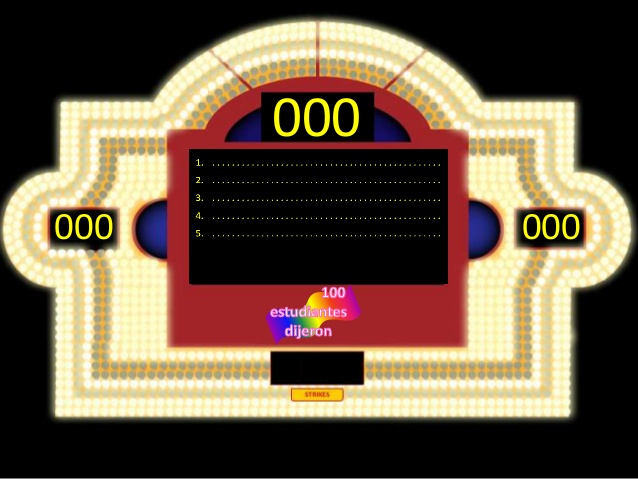
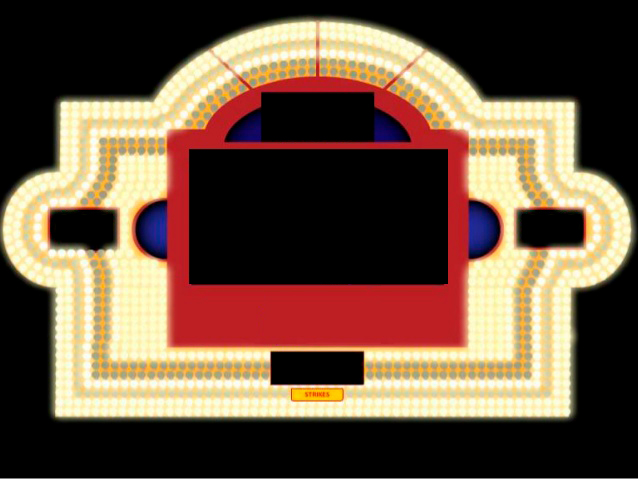
puntajes establecidos

diff --git a/index.html b/index.html
@@ -4,7 +4,6 @@
     <title>100 fisios dijeron</title>
     <script src="js/vue.min.js"></script>
     <link rel="stylesheet" href="css/bootstrap.min.css">
-    <link rel="stylesheet" href="css/foundation.min.css">
     <link rel="stylesheet" href="css/app.css">
 </head>
 <body>
@@ -23,11 +22,17 @@
             </div>
         </div>
     </div>
-    <div class="container">
+    <div class="container-fluid">
         <div class="row">
-            <div class="col-12">
-
-
+            <div class="col-3 align-self-center ">
+                <div class="mx-auto puntuacion-equipo">
+                    <p>30as0</p>
+                </div>
+            </div>
+            <div class="col-6" style="height: 92vh">
+                <div id="puntuacion-ronda" class="mx-auto">
+                    <p>{{puntuacionRonda}}</p>
+                </div>
                 <div class="contenedor-preguntas">
                     <section v-for="(respuesta, index) in respuestas1">
                         <div v-if="!respuesta.mostrar" class="pregunta hand" @click="destaparRespuesta('respuestas1', index)">
@@ -40,11 +45,12 @@
                     </section>
                 </div>
             </div>
+            <div class="col-3 align-self-center ">
+                <div class="mx-auto puntuacion-equipo">
+                    <p>30as0</p>
+                </div>
+            </div>
         </div>
-    </div>
-
-    <div class="conteo-equipo-1">
-        <p>{{puntuacionRonda}}</p>
     </div>
 </div>
 <script src="js/app.js"></script>

diff --git a/css/app.css b/css/app.css
@@ -7,12 +7,46 @@ body {
 }
 
 .contenedor-preguntas {
-    width: 60%;
+    width: 90%;
     background-color: #0a0a0a;
     position: relative;
     height: 41vh;
-    top: 130px;
+    top: 98px;
     margin: 0 auto;
+    border-radius: 10px;
+}
+
+#puntuacion-ronda {
+    position: relative;
+    top: 87px;
+    height: 4.4em;
+    width: 38%;
+    background-color: #000000;
+    border-radius: 10px;
+}
+
+#puntuacion-ronda p{
+    color: #fae312;
+    margin: 0;
+    font-size: 3em;
+    text-align: center;
+}
+
+
+.puntuacion-equipo{
+    position: relative;
+    bottom: 40px;
+    height: 4.4em;
+    width: 57%;
+    background-color: #000000;
+    border-radius: 10px;
+}
+
+.puntuacion-equipo p{
+    color: #fae312;
+    margin: 0;
+    font-size: 2.5em;
+    text-align: center;
 }
 
 .pregunta, .respuesta {
@@ -46,6 +80,7 @@ body {
     width: 128px;
 }
 
+
 .conteo-equipo-1 p {
     font-size: 2em;
     text-align: center;
@@ -53,6 +88,6 @@ body {
     color: #fae312;
 }
 
-.hand{
+.hand {
     cursor: pointer;
 }
